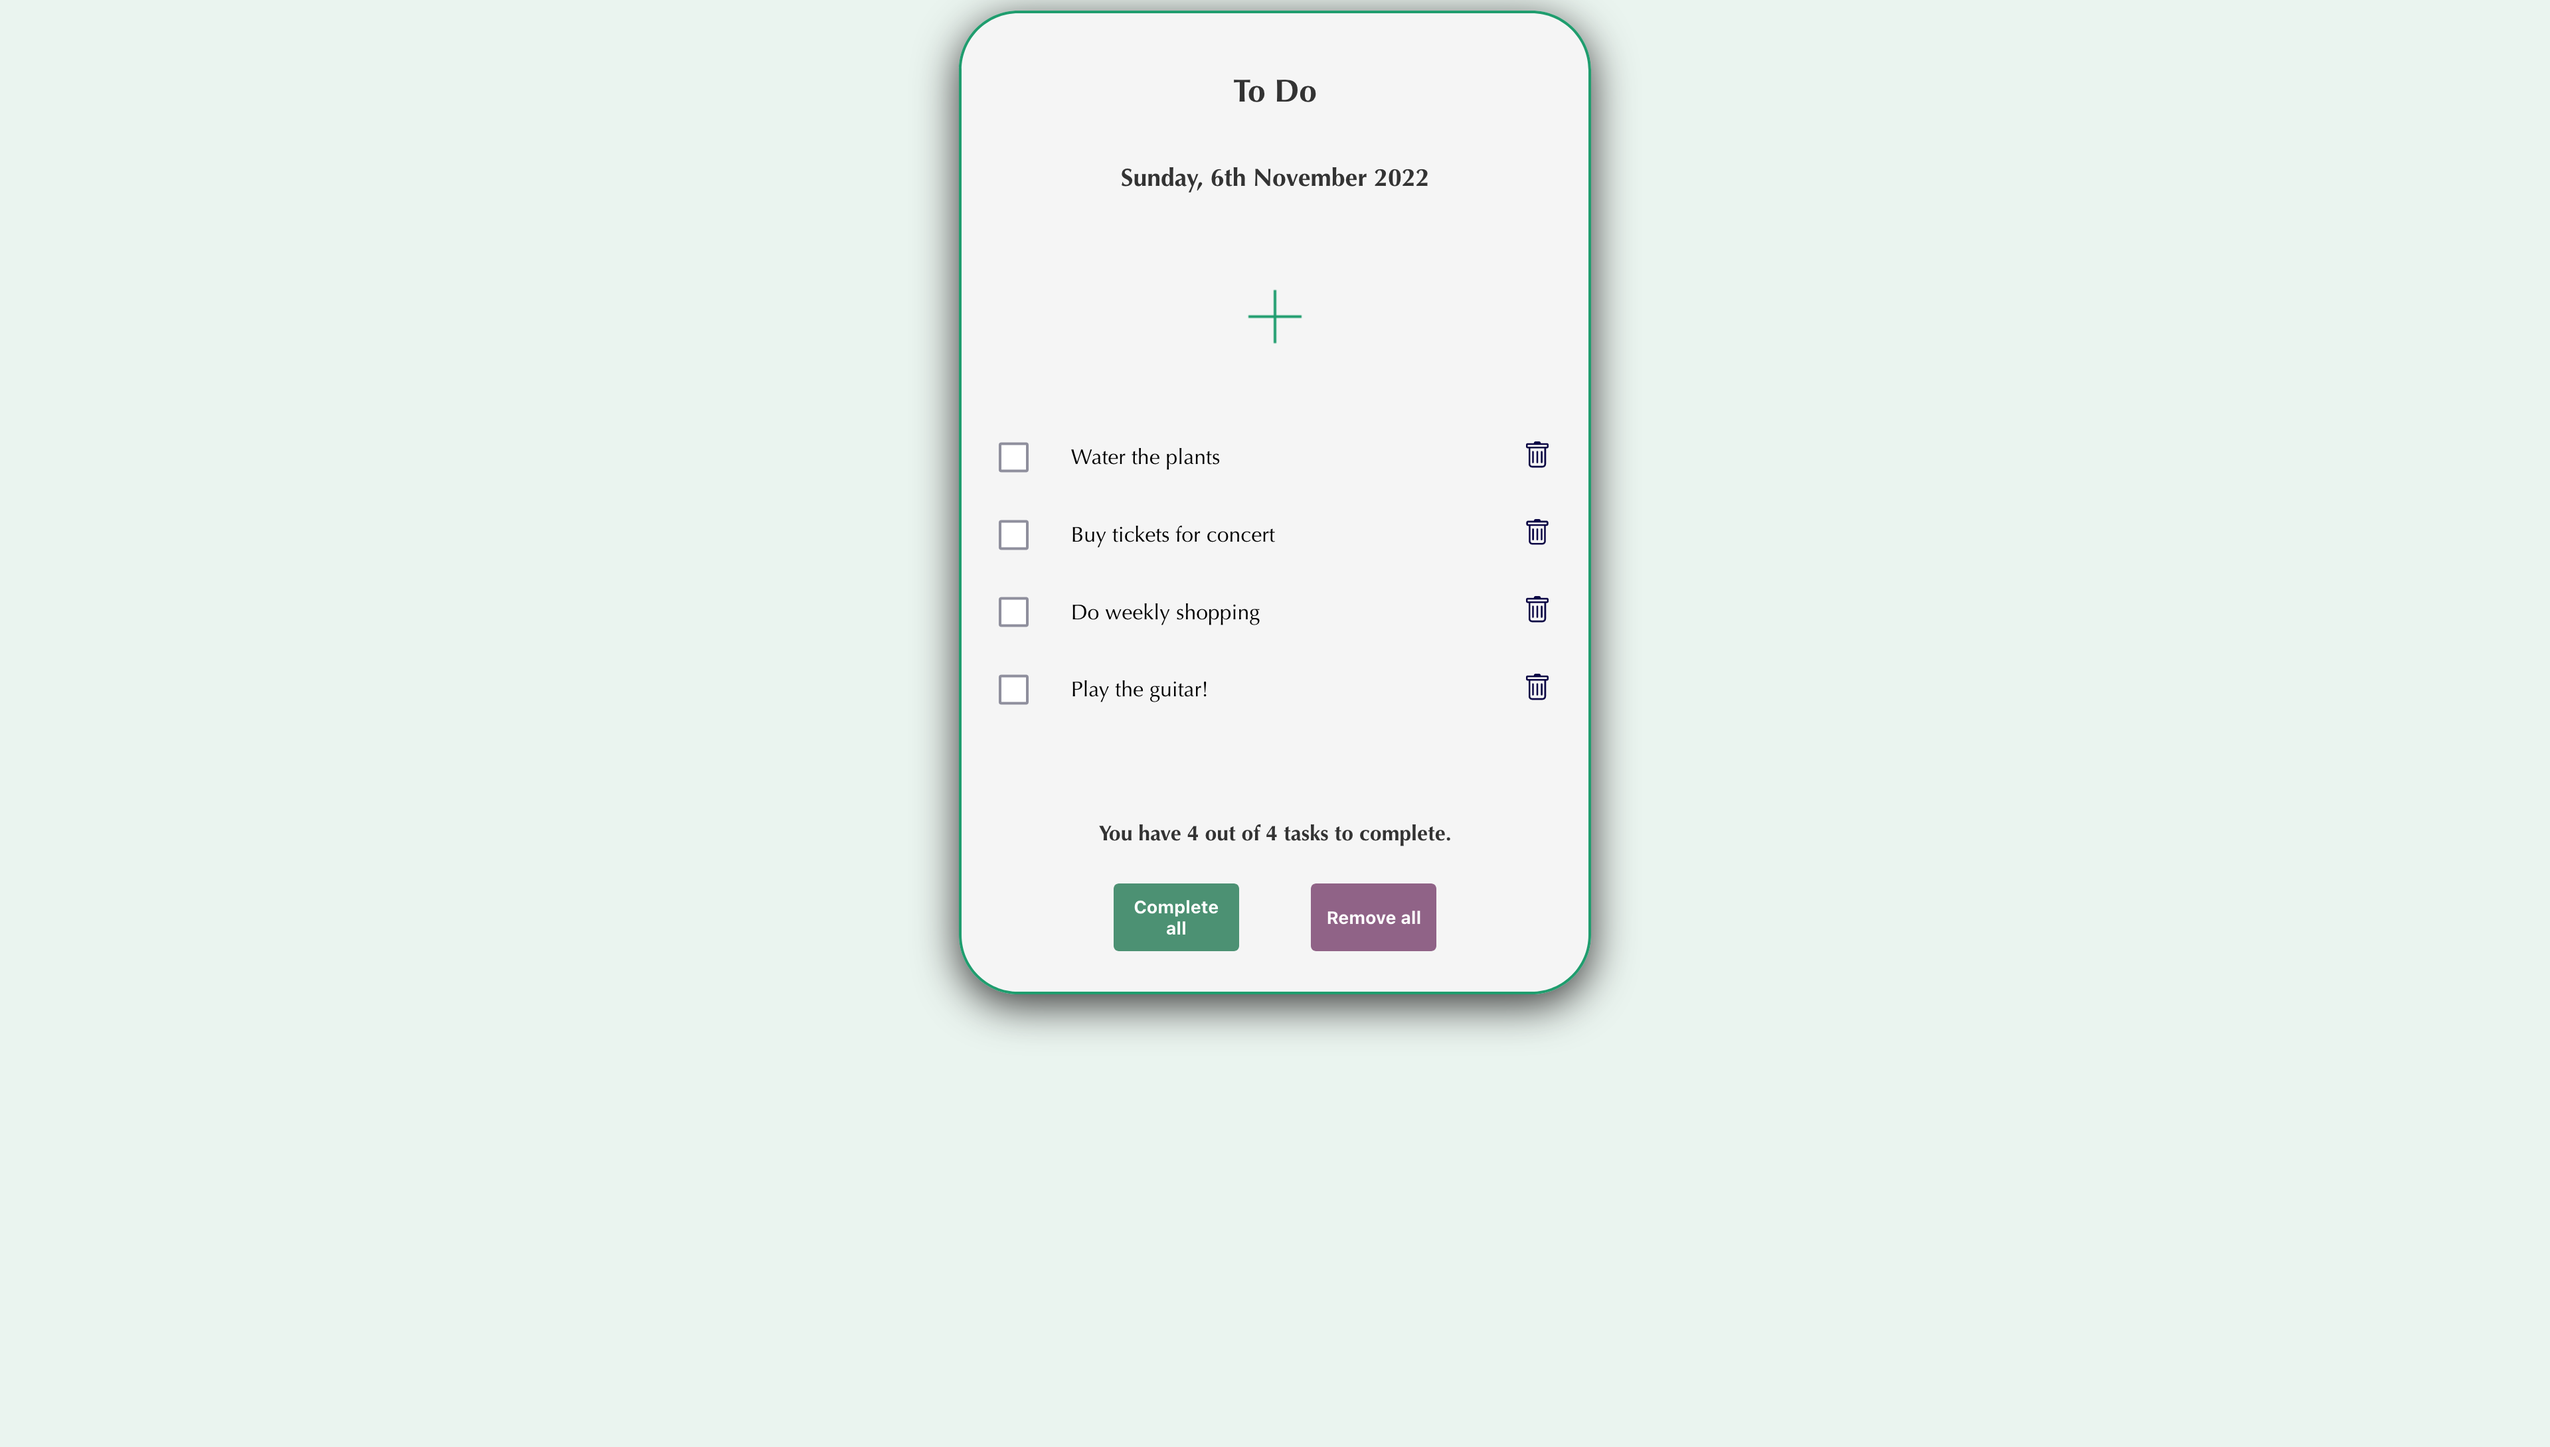
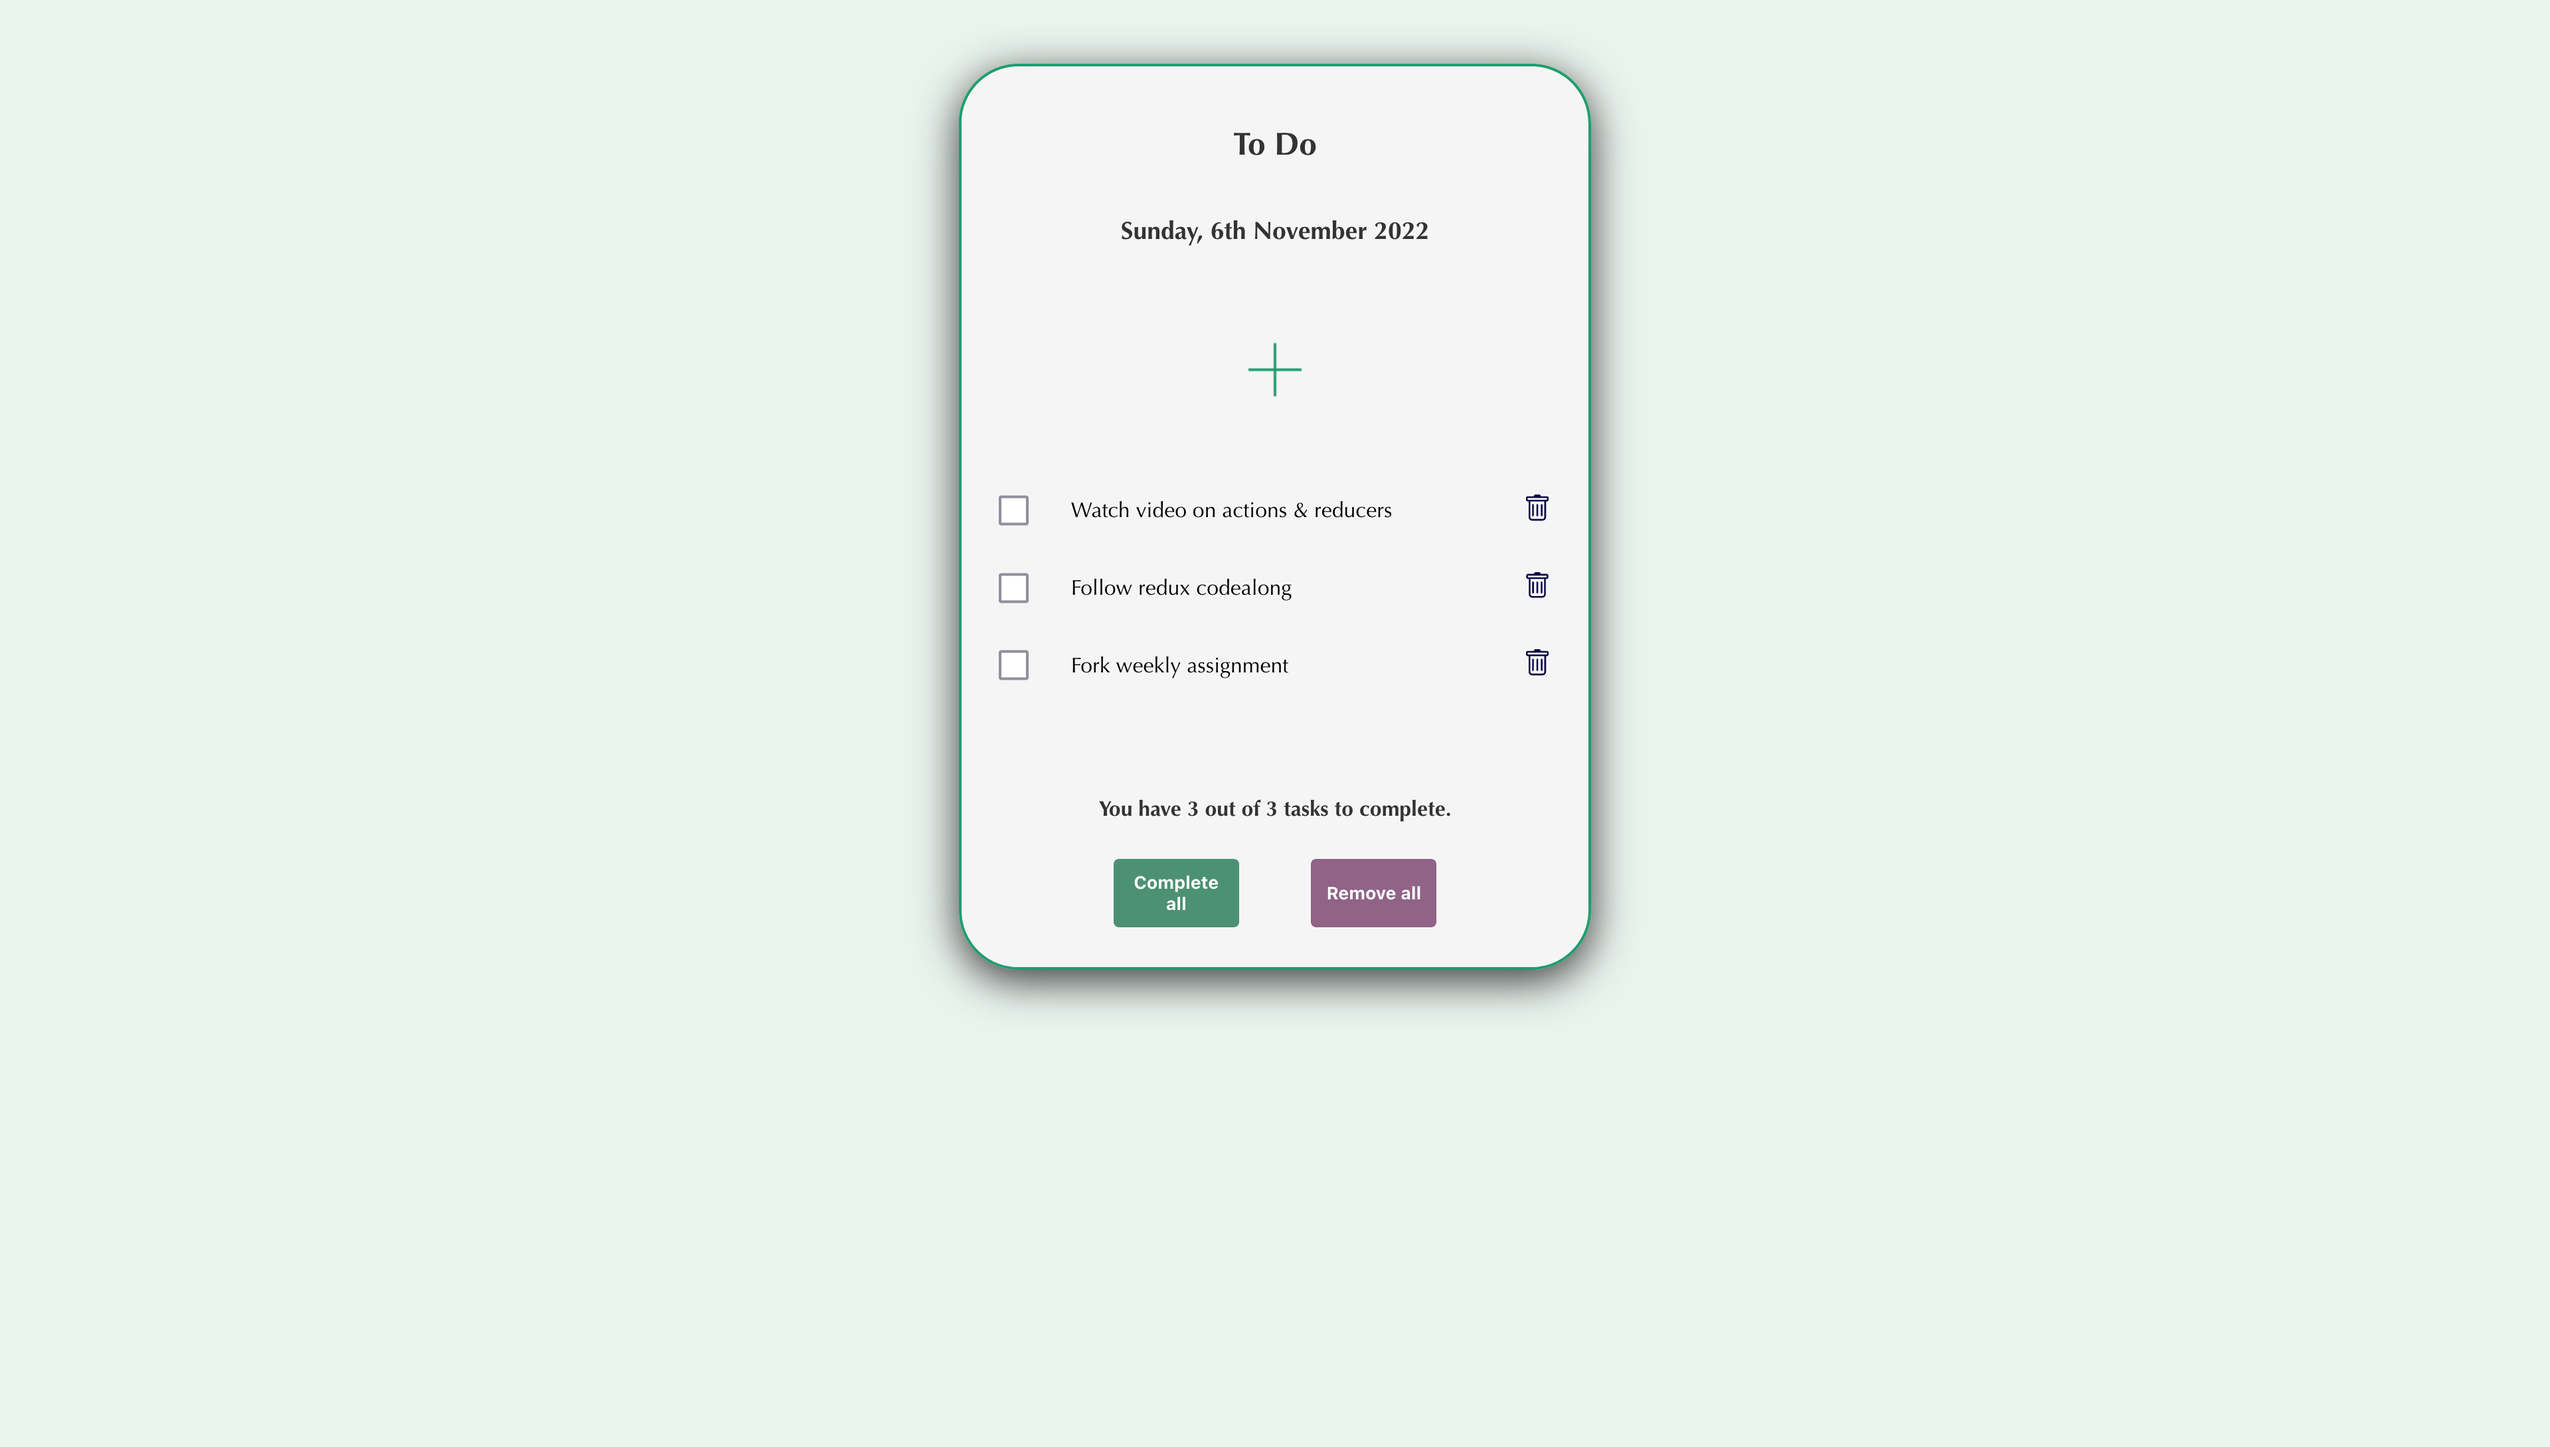
Final Styling

diff --git a/code/src/index.css b/code/src/index.css
@@ -28,6 +28,7 @@ main {
 
 @media (min-width: 668px) and (max-width: 1024px) {
   main {
+    margin-top: 2rem;
     width: 50%;
     min-height: 60vh;
   }
@@ -35,6 +36,7 @@ main {
 
 @media (min-width: 1025px) and (max-width: 1440px){
   main {
+    margin-top: 2rem;
     width: 35%;
     min-height: 60vh;
   }
@@ -42,6 +44,7 @@ main {
 
 @media (min-width: 1441px){
   main {
+    margin-top: 3rem;
     border: 2px solid #1F9D6E;
     width: 25%;
     min-height: 60vh;
